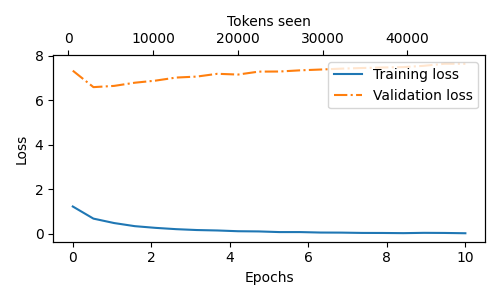
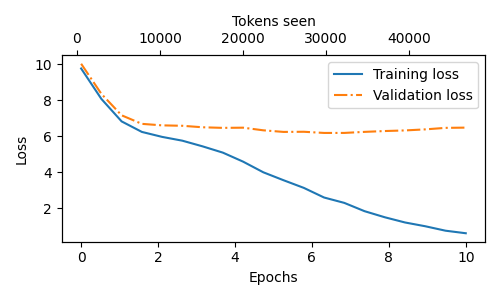
Reduce context length for experiments

diff --git a/gpt_model.py b/gpt_model.py
@@ -15,7 +15,7 @@ from main import MultiHeadAttention
 from gpt_model_data import get_verdict_dataloaders
 
 
-LOAD_HF_GPT2 = True
+LOAD_HF_GPT2 = False
 
 
 class GPTModel(nn.Module):
@@ -153,7 +153,7 @@ class FeedForward(nn.Module):
 
 GPT_CONFIG_124M = {
     "vocab_size": 50257,
-    "context_length": 1024,
+    "context_length": 256,
     "emb_dim": 768,
     "n_heads": 12,
     "n_layers": 12,

diff --git a/gpt_model_repl.py b/gpt_model_repl.py
@@ -53,6 +53,7 @@ def generate_sample(model, start_context, tokenizer, device, top_k, temperature)
 
 def main():
     device = torch.device("cuda" if torch.cuda.is_available() else "cpu")
+    print(f'Using device: {device}')
     model, tokenizer = load_model_tokenizer(device)
     model.eval()
 

diff --git a/gpt_download.py b/gpt_download.py
@@ -115,3 +115,7 @@ def load_gpt2_params_from_tf_ckpt(ckpt_path, settings):
         target_dict[last_key] = variable_array
 
     return params
+
+
+if __name__ == '__main__':
+    download_and_load_gpt2('124M', './gpt2/')
